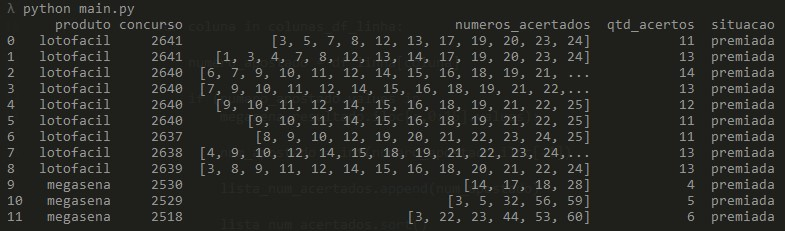
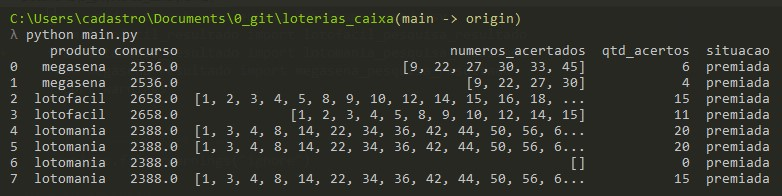
Adiciona pesquisa para lotomania e troca Chrome por Firefox.

Changed region(s): [[0.0, 0.0, 1.0, 0.9796], [0.8593, 0.6429, 1.0, 0.9796]]

diff --git a/main.py b/main.py
@@ -1,5 +1,6 @@
 from pandas import read_excel, DataFrame, read_csv
 from lotofacil_resultado import lotofacil_pesquisa_resultado
+from lotomania_resultado import lotomania_pesquisa_resultado
 from megasena_resultado import megasena_pesquisa_resultado
 import warnings
 
@@ -12,7 +13,7 @@ data_input = read_excel(
 
     '1_data/raw/jogos_apostados.xlsx',
     sheet_name = 'jogos',
-    header = 2,
+    header = 3,
     index_col = 'id'
 
     )
@@ -26,6 +27,76 @@ df_conferencia_final = DataFrame()
 for produto in lista_produtos:
 
     df_produto = data_input[data_input['produto'] == produto]
+
+    if produto == 'lotomania':
+        
+        for id_linha in df_produto.index:
+            
+            df_linha = df_produto[df_produto.index == id_linha]
+            
+            colunas_df_linha = df_linha.columns
+            
+            # resultado lotomania
+            lotomania_resultado = lotomania_pesquisa_resultado(
+                
+                df_linha['concurso'].iloc[-1]
+                
+            )
+            
+            if (df_linha['concurso'].iloc[-1] == 
+               lotomania_resultado['concurso'].iloc[-1]):
+                
+                lista_num_acertados = []
+                
+                for coluna in colunas_df_linha:
+                    
+                    numero_apostado = df_linha[coluna]
+                    
+                    if (numero_apostado.values in 
+                        lotomania_resultado.iloc[:,0:20].values):
+                        
+                        num_apostado = int(numero_apostado.iloc[-1])
+                        
+                        lista_num_acertados.append(num_apostado)
+                        
+                        lista_num_acertados.sort()
+                
+                lista_acertos = [
+                    
+                    produto,
+                    df_linha['concurso'].iloc[-1],
+                    lista_num_acertados
+                    
+                ]
+                
+                df_conferencia = DataFrame(lista_acertos).T
+                
+                df_conferencia.columns = [
+                    
+                    'produto',
+                    'concurso',
+                    'numeros_acertados'
+                    
+                ]
+                
+                soma_acertos = len(lista_num_acertados)
+                
+                df_conferencia['qtd_acertos'] = soma_acertos
+                
+                if soma_acertos <= 14:
+                    df_conferencia['situacao'] = ''
+                
+                if soma_acertos == 0:
+                    df_conferencia['situacao'] = f'premiada'
+                
+                if soma_acertos >= 15:
+                    df_conferencia['situacao'] = f'premiada'
+                
+                df_conferencia_final = df_conferencia_final.append(
+                    
+                    df_conferencia
+                    
+                )
 
     if produto == 'lotofacil':
         
@@ -119,7 +190,7 @@ for produto in lista_produtos:
                     numero_apostado = df_linha[coluna]
                     
                     if (numero_apostado.values in 
-                        megasena_resultado.iloc[:,0:15].values):
+                        megasena_resultado.iloc[:,0:6].values):
                         
                         num_apostado = int(numero_apostado.iloc[-1])
                         

diff --git a/lotomania_resultado.py b/lotomania_resultado.py
@@ -9,9 +9,9 @@ from pandas import DataFrame
 
 warnings.filterwarnings("ignore")
 
-def megasena_pesquisa_resultado(concurso):
+def lotomania_pesquisa_resultado(concurso):
     """
-    Pesquisa o resultado da Mega-Sena pelo número do concurso.
+    Pesquisa o resultado da Lotomania pelo número do concurso.
     """
 
     try:
@@ -28,7 +28,7 @@ def megasena_pesquisa_resultado(concurso):
         
         navegador.get(
             
-            'https://loterias.caixa.gov.br/Paginas/Mega-Sena.aspx'
+            'https://loterias.caixa.gov.br/Paginas/Lotomania.aspx'
             
         )
         
@@ -45,7 +45,7 @@ def megasena_pesquisa_resultado(concurso):
         
         sleep(1)
         
-        result_megasena = {
+        result_lotomania = {
             
             'n1': 0,
             'n2': 0,
@@ -62,32 +62,36 @@ def megasena_pesquisa_resultado(concurso):
             'n13': 0,
             'n14': 0,
             'n15': 0,
+            'n16': 0,
+            'n17': 0,
+            'n18': 0,
+            'n19': 0,
+            'n20': 0,
             'produto': '',
             'concurso': 0
             
         }
         
-        for num in range(1,7):
+        for num in range(1,21):
             
-            result_megasena[f'n{num}'] = pesquisa_concurso.find_element(
+            result_lotomania[f'n{num}'] = pesquisa_concurso.find_element(
                 
                 By.XPATH,
-                f'//*[@id="ulDezenas"]/li[{num}]'
+                f'//*[@id="wp_resultados"]/div[2]/div/div/div[1]/ul/li[{num}]'
                 
             ).text
             
-            result_megasena[f'n{num}'] = int(result_megasena[f'n{num}'])
+            result_lotomania[f'n{num}'] = int(result_lotomania[f'n{num}'])
         
-        result_megasena['produto'] = 'megasena'
+        result_lotomania['produto'] = 'lotomania'
         
-        result_megasena['concurso'] = concurso
+        result_lotomania['concurso'] = concurso
         
-        df_megasena_resultado = DataFrame([result_megasena])
+        df_lotomania_resultado = DataFrame([result_lotomania])
         
         navegador.close()
     
     except Exception as error:
         print(error)
     
-    return df_megasena_resultado
-
+    return df_lotomania_resultado

diff --git a/lotofacil_resultado.py b/lotofacil_resultado.py
@@ -2,7 +2,7 @@ from selenium import webdriver
 from time import sleep
 from selenium.webdriver.common.keys import Keys
 from selenium.webdriver.common.by import By
-from selenium.webdriver.chrome.options import Options
+from selenium.webdriver.firefox.options import Options
 import warnings
 from pandas import DataFrame
 
@@ -17,16 +17,11 @@ def lotofacil_pesquisa_resultado(concurso):
     try:
         
         options = Options() 
-        options.add_argument("--incognito")
-        options.add_argument("--disable-logging")
-        options.add_argument('--headless')
-        options.add_argument('--log-level=3')
-        options.add_argument("start-maximized")
-        options.add_experimental_option('excludeSwitches', ['enable-logging'])
+        options.add_argument('--headless') # não abre a janela.
         
-        navegador = webdriver.Chrome(
+        navegador = webdriver.Firefox(
             
-            executable_path='C:/Users/cadastro/anaconda3/chromedriver.exe',
+            executable_path='C:/webdriver/geckodriver.exe',
             options=options
             
         )

diff --git a/README.md b/README.md
@@ -8,11 +8,12 @@ A loteria é uma forma de jogo que envolve o sorteio de números aleatoriamente 
 * Exibe o resultado filtrado dos jogos premiados;
 * Retonarna o resultado na tela e salva um csv para estudos;
 * Pesquisa o resultado direto no site da caixa;
-* Confere jogos apenas da Mega-Sena e Lotofácil, por enquanto.
+* Confere jogos apenas da Mega-Sena, lotomania e Lotofácil, por enquanto.
 
 ## Utilização
 * Preencher a planilha 'jogos_apostados.xlsx' em '1_data/raw';
 * Instalar as bibliotecas necessárias (Selenium e Pandas);
+* Utilizar o Firefox;
 * Executar o arquivo 'main.py'.
 
 
